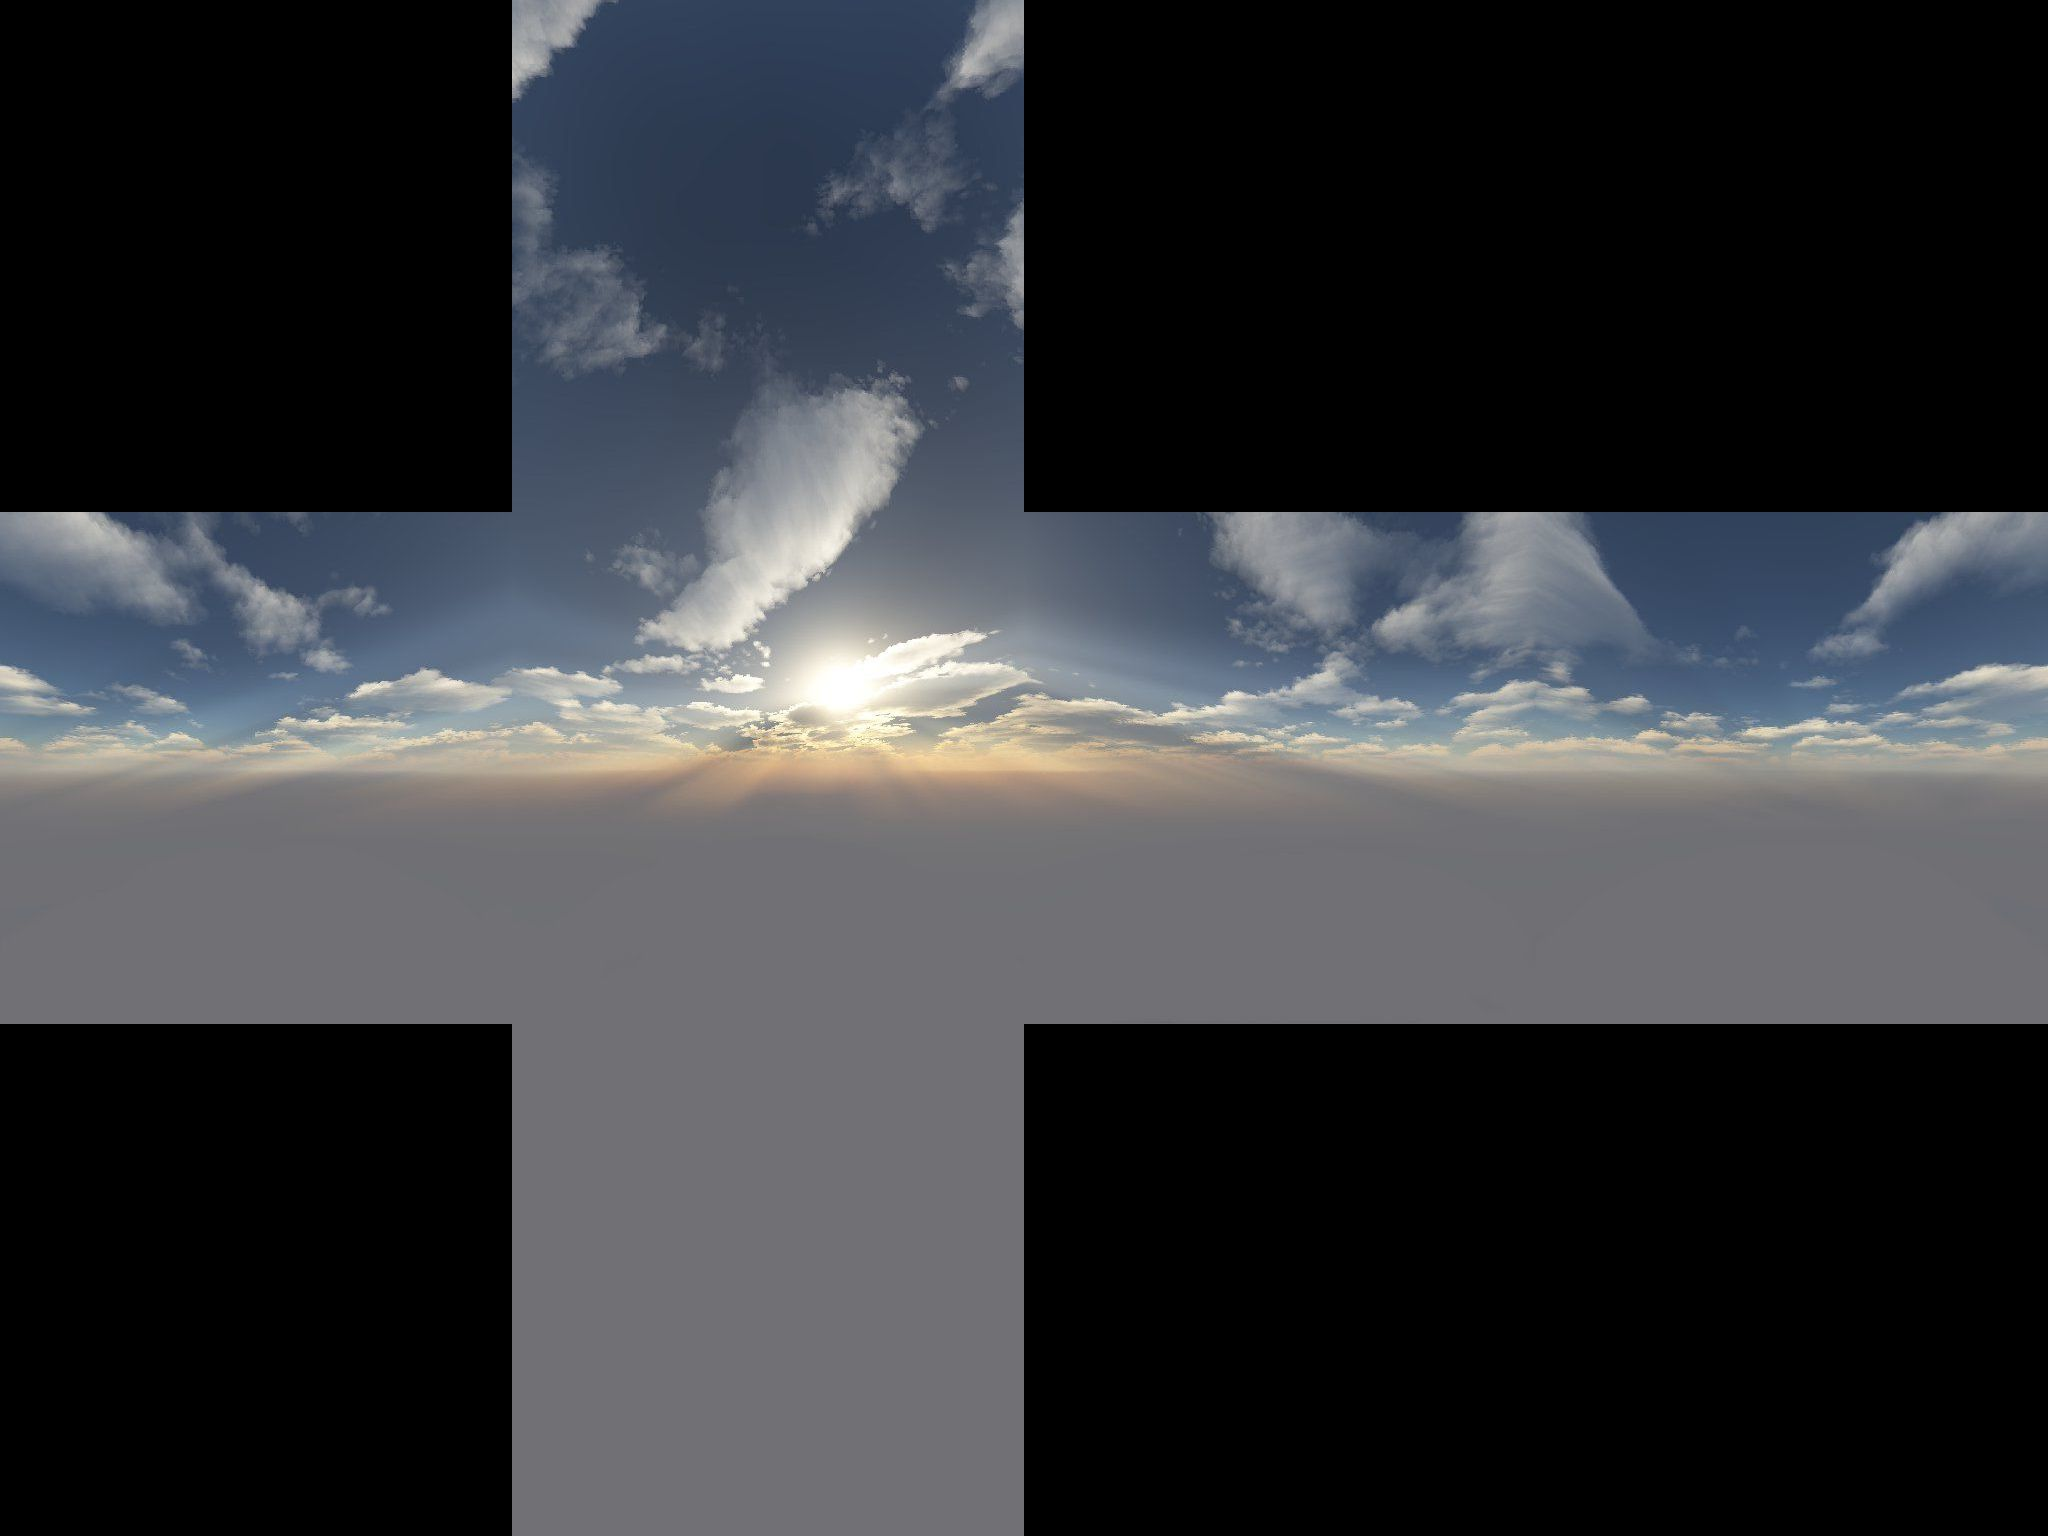
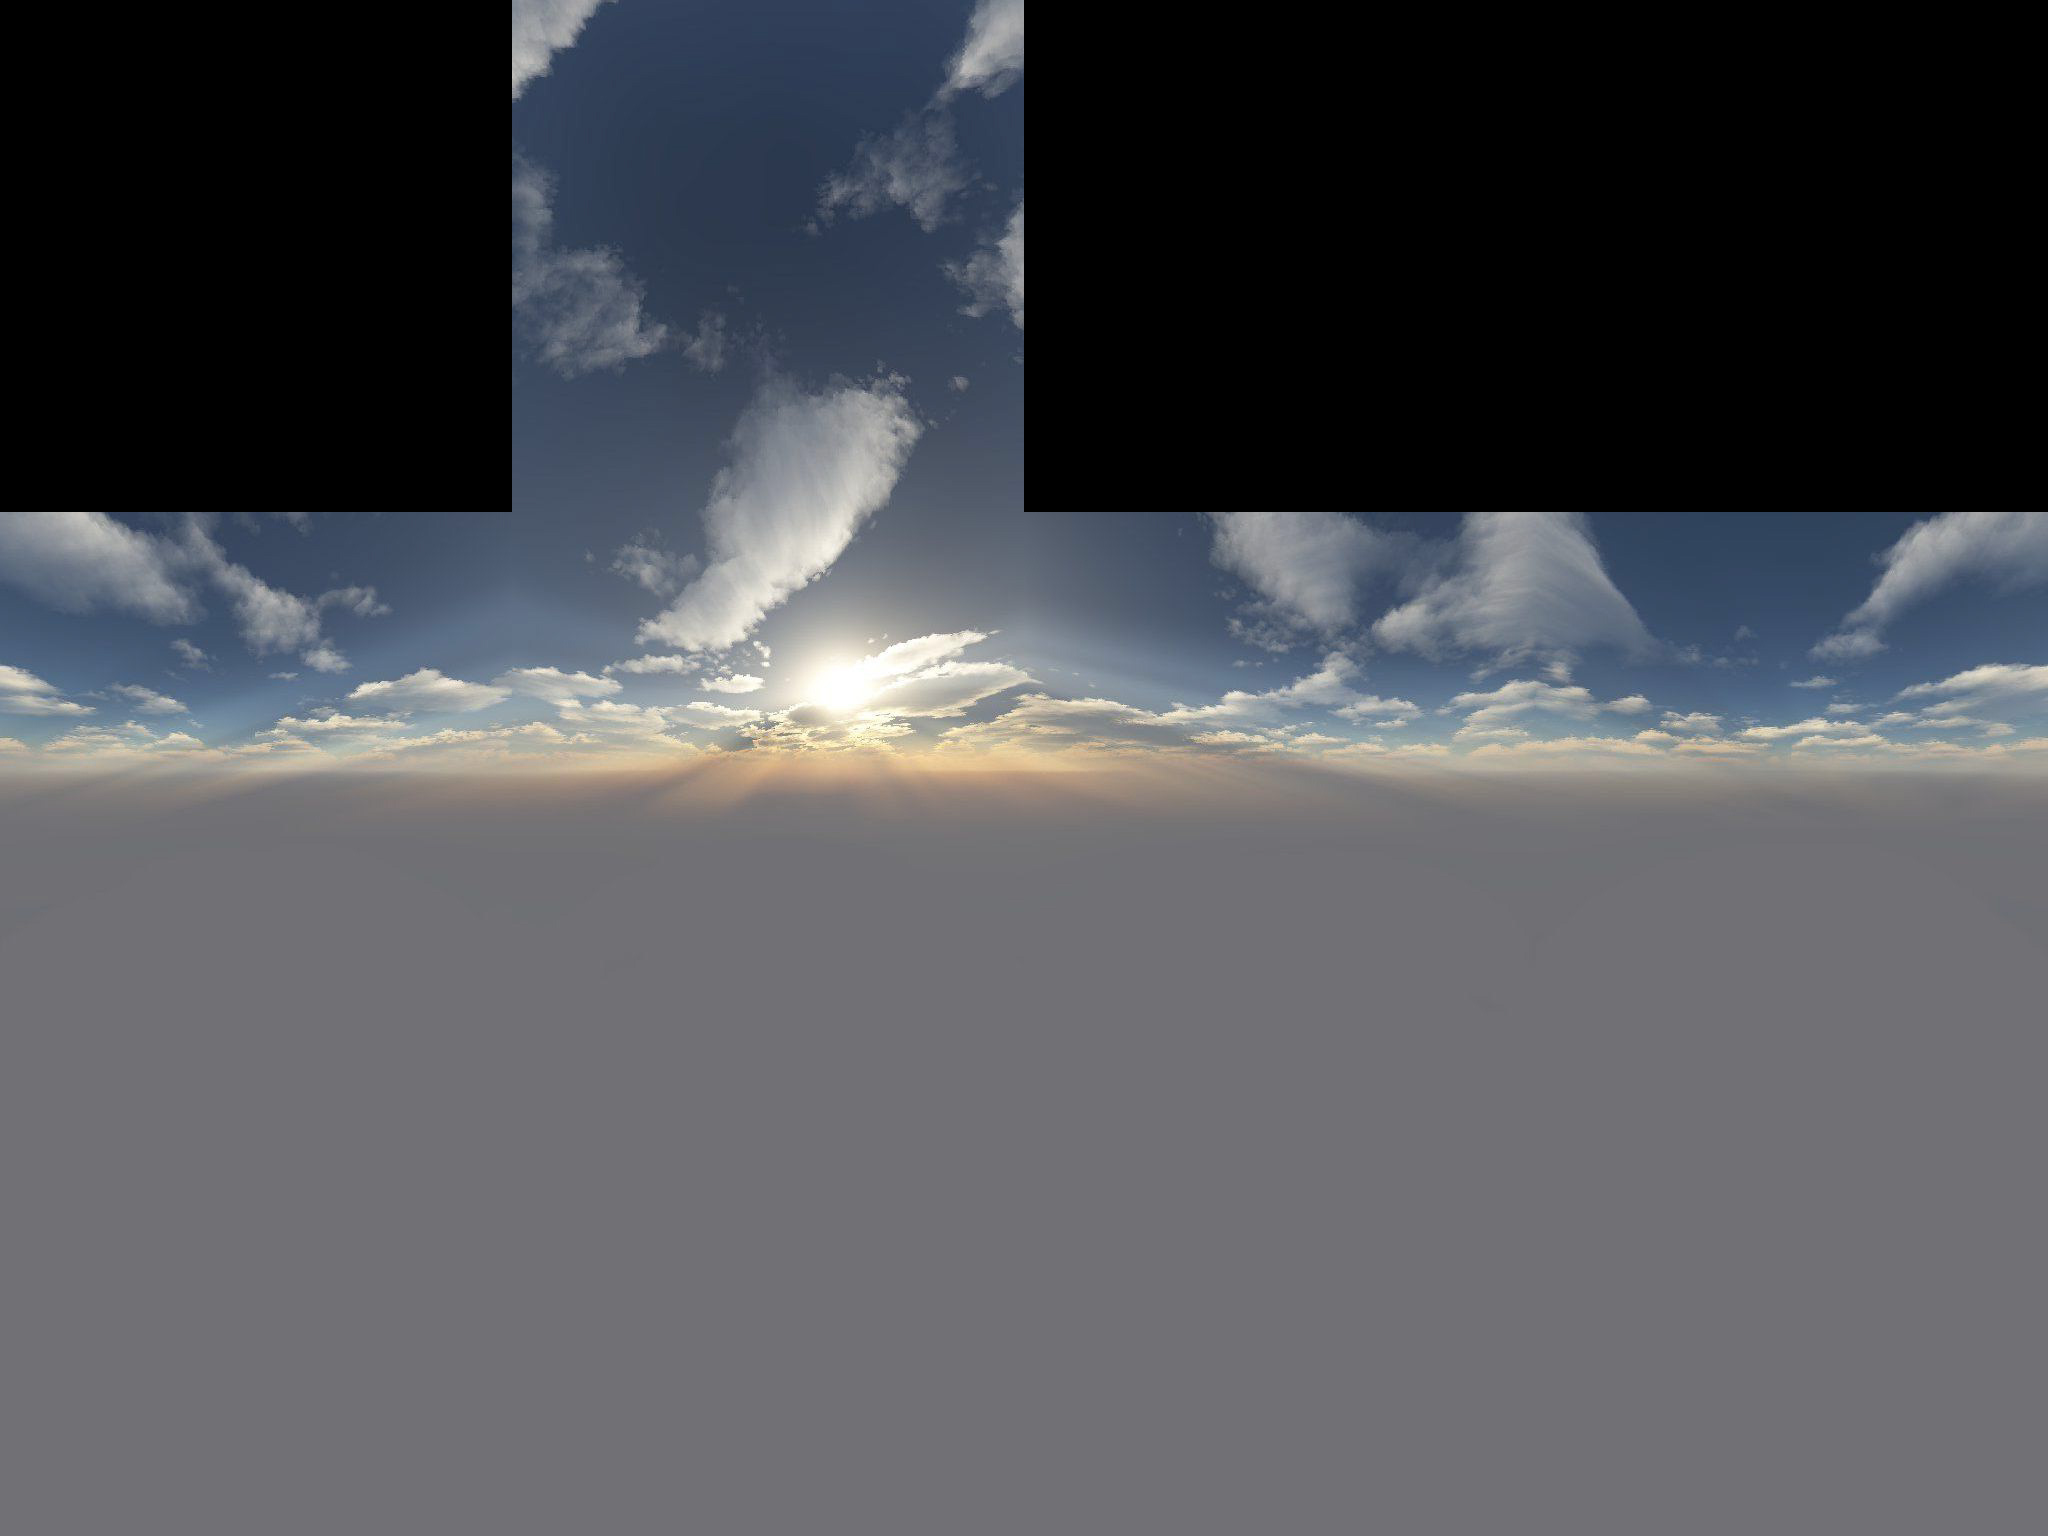
sky box light fix

Changed region(s): [[0.5, 0.6562, 1.0, 1.0], [0.0, 0.6562, 0.25, 1.0]]

diff --git a/openglwidget.cpp b/openglwidget.cpp
@@ -71,6 +71,8 @@ void OpenGLWidget::initializeGL()
     }
 
     program = ShaderManager::instance().getShaderProgram("default");
+    skyBoxProgram = ShaderManager::instance().getShaderProgram("skybox");
+
 
     TextureManager::instance().loadTexture(":/textures/magma.png", "magma");
     TextureManager::instance().loadTexture(":/textures/wood.png", "wood");
@@ -79,8 +81,9 @@ void OpenGLWidget::initializeGL()
 
     Skybox *skybox = new Skybox();
     skybox->initialize();
-    skybox->setScale(QVector3D(500, 500, 500));
-    scene.addShape(skybox);
+    skybox->setScale(QVector3D(1000, 1000, 1000));
+    skybox->setRotation(180, QVector3D(0, 1, 0));
+    scene.setSkybox(skybox);
 
     Cube *cube = new Cube("magma");
     cube->initialize();
@@ -108,6 +111,11 @@ void OpenGLWidget::initializeGL()
     cameraController->updateCamera();
 }
 
+void OpenGLWidget::initShaders() {
+
+
+}
+
 void OpenGLWidget::resizeGL(int w, int h)
 {
     glViewport(0, 0, w, h);
@@ -117,22 +125,22 @@ void OpenGLWidget::resizeGL(int w, int h)
 void OpenGLWidget::paintGL()
 {
     frameCount++;
+
     deltaTime = frameTimer.restart() / 1000.0f;
 
     glClear(GL_COLOR_BUFFER_BIT | GL_DEPTH_BUFFER_BIT);
 
-    glDepthMask(GL_FALSE);
-    QOpenGLShaderProgram* skyboxProgram = ShaderManager::instance().getShaderProgram("skybox");
-    if (skyboxProgram) {
-        skyboxProgram->bind();
-        scene.renderAll(*skyboxProgram);
-        skyboxProgram->release();
+    glDepthFunc(GL_LEQUAL);
+    if (skyBoxProgram) {
+        skyBoxProgram->bind();
+        scene.renderSkybox(*skyBoxProgram);
+        skyBoxProgram->release();
+
     }
-    glDepthMask(GL_TRUE);
+    glDepthFunc(GL_LESS);
 
     if (program) {
         program->bind();
-
         program->setUniformValue("lightPos", light->position());
         program->setUniformValue("viewPos", scene.getCameraPosition());
         program->setUniformValue("lightColor", light->color());

diff --git a/scene.cpp b/scene.cpp
@@ -30,6 +30,26 @@ void Scene::renderAll(QOpenGLShaderProgram& program) {
     program.release();
 }
 
+void Scene::setSkybox(Skybox *skybox_new) {
+    skybox = skybox_new;
+}
+
+void Scene::renderSkybox(QOpenGLShaderProgram &program) {
+    program.bind();
+
+    view.setToIdentity();
+    view.lookAt(cameraPos, cameraPos + cameraFront, cameraUp);
+
+    QMatrix4x4 viewWithoutTranslation = view;
+    viewWithoutTranslation.setColumn(3, QVector4D(0, 0, 0, 1));
+    program.setUniformValue("view", viewWithoutTranslation);
+    program.setUniformValue("projection", projection);
+
+    skybox->render(program);
+
+    program.release();
+}
+
 QMatrix4x4 Scene::getViewMatrix() const {
     return view;
 }

diff --git a/skybox.cpp b/skybox.cpp
@@ -14,7 +14,7 @@ void Skybox::initialize() {
 
 void Skybox::setupVertices() {
     float w_div_2 = 0.5f;
-    float border = 0.002f; // Небольшой отступ от краев текстуры
+    float border = 0.0003f; // Небольшой отступ от краев текстуры
     QVector<VertexData> vertexes;
 
     // Позади нас
@@ -131,7 +131,7 @@ void Skybox::render(QOpenGLShaderProgram& program) {
     QOpenGLTexture* texture = TextureManager::instance().getTexture(textureName);
     if (texture) {
         texture->bind();
-        program.setUniformValue("ourTexture", 0);
+        program.setUniformValue("skyTexture", 0);
     }
 
     vertexBuffer.bind();

diff --git a/scene.h b/scene.h
@@ -5,6 +5,7 @@
 #include <QMatrix4x4>
 #include <QVector3D>
 #include "shape.h"
+#include "skybox.h"
 
 class Scene
 {
@@ -15,6 +16,9 @@ public:
 
     void addShape(Shape* shape);
     void renderAll(QOpenGLShaderProgram& program);
+
+    void setSkybox(Skybox* skybox_new);
+    void renderSkybox(QOpenGLShaderProgram& program);
 
     QMatrix4x4 getViewMatrix() const;
     QMatrix4x4 getProjectionMatrix() const;
@@ -29,8 +33,11 @@ public:
     const QVector<Shape*>& getShapes() const { return shapes; }
 
 
+
+
 private:
     QVector<Shape*> shapes;
+    Skybox *skybox;
     QMatrix4x4 projection;
     QMatrix4x4 view;
 

diff --git a/openglwidget.h b/openglwidget.h
@@ -21,6 +21,7 @@ public:
 
 protected:
     void initializeGL() override;
+    void initShaders();
     void resizeGL(int w, int h) override;
     void paintGL() override;
     void mousePressEvent(QMouseEvent* event) override;
@@ -32,6 +33,7 @@ protected:
 
 private:
     QOpenGLShaderProgram *program;
+    QOpenGLShaderProgram *skyBoxProgram;
     Scene scene;
     CameraController* cameraController;
 

diff --git a/light.cpp b/light.cpp
@@ -2,7 +2,7 @@
 
 Light::Light(QObject* parent)
     : QObject(parent),
-    m_position(50.0f, 50.0f, 50.0f),
+    m_position(-50.0f, 100.0f, 50.0f),
     m_color(1.0f, 1.0f, 1.0f),
     m_ambientStrength(0.1f),
     m_specularStrength(0.5f),
